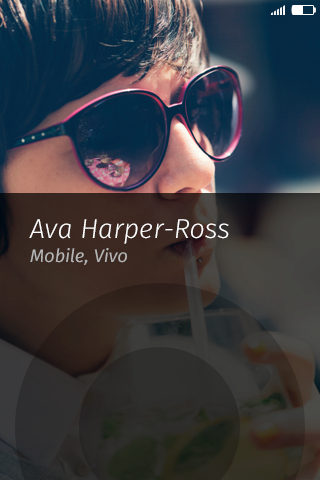
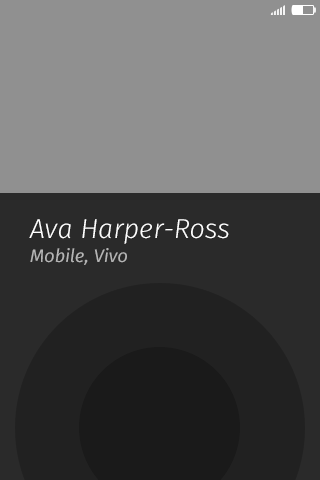
demo 1 casi finalizada

diff --git a/style/css/style2.css b/style/css/style2.css
@@ -2,16 +2,21 @@
 	padding: 0;
 	margin: 0;
 }
+body{
+  overflow: hidden;
+  height: 460px;
+}
 section#bg{
   background-image: url(../images/background-1.png);
   background-repeat: no-repeat;
   position: absolute;
-  top: -1rem;
+  top: -20px;
   right: 0;
   bottom: 0;
   left: 0;
   width: 320px;
   height: 480px;
+  overflow: hidden;
 }
 section#bg.two{
   background-image: url(../images/background-2.png);
@@ -22,28 +27,121 @@ section#actions{
   bottom: -100px;
   width: 300px;
   height: 300px;
-  background: #008000;
   border-radius: 150px;
-  left: 10px;
-  opacity: 0.2;
+  left: calc( 50% - 150px );
 }
 
 #circle{
   width: 4rem;
   height: 4rem;
   position: absolute;
-  left: 50%;
-  margin-left: -2rem;
-  background-color: #AAA;
-  border-radius: 2rem;
+  left: calc( 50% - 2rem);
+  background-color: rgba(255,255,255,0.65);
+  border-radius: 40px;
   top: calc(50% - 2rem);
 }
 
 #ring_off{
-  width: 100px;
-  height: 100px;
-  background: none repeat scroll 0% 0% #F00;
+  width: 80px;
+  height: 80px;
   position: absolute;
-  bottom: 0px;
-  left: 0px;
+  bottom: 8px;
+  left: 8px;
+  background-image: url(../images/hang_up.png);
+  background-repeat: no-repeat;
+  background-position: center;
+}
+
+#ring_off.active{
+  width: 76;
+  height: 76;
+  background-color: #e00000;
+  border-radius: 40px;
+  background-image: url(../images/hang_up_active.png);
+  opacity: 1
+}
+
+#get_call{
+  width: 76px;
+  height: 76px;
+  border-radius: 40px;
+  position: absolute;
+  bottom: 8px;
+  right: 8px;
+  background-image: url(../images/pick_up.png);
+  background-repeat: no-repeat;
+  background-position: center;
+  
+  
+}
+
+#get_call.active{
+  /*width: 80px;
+  height: 80px;*/
+  
+  transform: scale(1.1, 1.1);
+  border-radius: 40px;
+  background-color: #27c8c2;
+  background-image: url(../images/pick_up_active.png);
+  opacity: 1;
+  transition: transform 0.3s;
+}
+       
+#sms{
+  width: 80px;
+  height: 80px;
+  position: absolute;
+  bottom: 124px;
+  left: calc(50% - 40px);
+  background-image: url(../images/SMS.png);
+  background-repeat: no-repeat;
+  background-position: center;
+}
+
+#sms.active{
+  width: 76;
+  height: 76;
+  border-radius: 40px;
+  background-color: #fff;
+  background-image: url(../images/SMS_active.png);
+  opacity: 1;
+}
+
+#bg.call_declined{
+  background-image: url(../images/call-declined.png);
+  opacity: 1;
+  z-index: 10;
+  -moz-transition: opacity 0.3s;
+}
+
+#bg.call_declined.disabled{
+  opacity: 0;
+  z-index: -1;
+  -moz-transition: opacity 0.3s;
+}
+
+#bg.call_accepted{
+  background-image: url(../images/call-accepted.png);
+  opacity: 1;
+  z-index: 10;
+  -moz-transition: opacity 0.3s;
+}
+
+#bg.call_accepted.disabled{
+  opacity: 0;
+  z-index: -1;
+  -moz-transition: opacity 0.3s;
+}
+
+#bg.sms_accepted{
+  background-image: url(../images/sms_screen.png);
+  opacity: 1;
+  z-index: 10;
+  -moz-transition: opacity 0.3s;
+}
+
+#bg.sms_accepted.disabled{
+  opacity: 0;
+  z-index: -1;
+  -moz-transition: opacity 0.3s;
 }

diff --git a/js/program2.js b/js/program2.js
@@ -1,4 +1,5 @@
 $(document).ready(function(){
+
   $( "#circle" ).draggable(
   	{ 
   		containment: "parent",
@@ -9,8 +10,62 @@ $(document).ready(function(){
   $( "#ring_off" ).droppable({
   	accept: "#circle",
       drop: function( event, ui ) {
-        alert('colgar');
+        $('#bg.call_declined').removeClass('disabled');
+      },
+      over: function( event, ui ) {
+        $('#circle').css({
+          opacity: 0
+        });
+        $( "#ring_off" ).addClass('active');
+      },
+      out: function( event, ui ) {
+        $( "#ring_off" ).removeClass('active');
+        $('#circle').css({
+          opacity: 1
+        });
       }
+  });
+
+  $( "#get_call" ).droppable({
+    accept: "#circle",
+      drop: function( event, ui ) {
+        $('#bg.call_accepted').removeClass('disabled');
+      },
+      over: function( event, ui ) {
+        $('#circle').css({
+          opacity: 0
+        });
+        $( "#get_call" ).addClass('active');
+      },
+      out: function( event, ui ) {
+        $( "#get_call" ).removeClass('active');
+        $('#circle').css({
+          opacity: 1
+        });
+      }
+  });
+
+  $( "#sms" ).droppable({
+    accept: "#circle",
+      drop: function( event, ui ) {
+        $('#bg.sms_accepted').removeClass('disabled');
+      },
+      over: function( event, ui ) {
+        $('#circle').css({
+          opacity: 0
+        });
+        $( "#sms" ).addClass('active');
+      },
+      out: function( event, ui ) {
+        $( "#sms" ).removeClass('active');
+        $('#circle').css({
+          opacity: 1
+        });
+      }
+  });
+
+  $('.reload').click(function(){
+    location.reload(); 
   });
 
 });

diff --git a/demo2.html b/demo2.html
@@ -12,10 +12,15 @@
 <body>
 	<section id='bg' class='two'>
 		<div id='ring_off'></div>
+		<div id='get_call' ></div>
+		<div id='sms'></div>
 		<section id='actions'>
-			<div id='circle'>
+			<div id='circle' class=''>
 			</div>
 		</section>
 	</section>
+	<section id='bg' class='call_declined disabled reload'></section>
+	<section id='bg' class='call_accepted disabled reload'></section>
+	<section id='bg' class='sms_accepted disabled reload'></section>
 </body>
 </html>

diff --git a/js/program.js b/js/program.js
@@ -11,7 +11,6 @@ $(document).ready(function(){
         //updateCounterStatus( $start_counter, counts[ 0 ] );
       },
       drag: function() {
-        
         //console.log( "Drag: "+counts[ 1 ]);
         var left = $("#circle").position().left;
  
